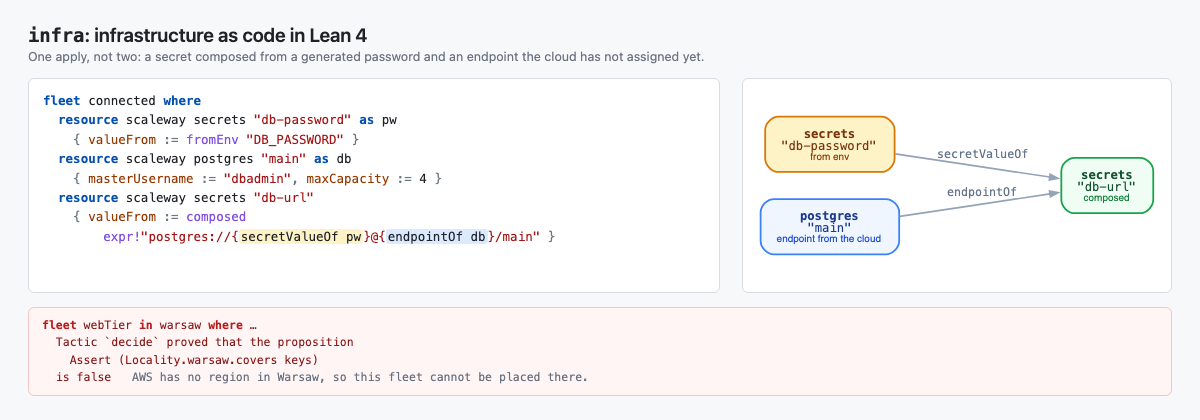
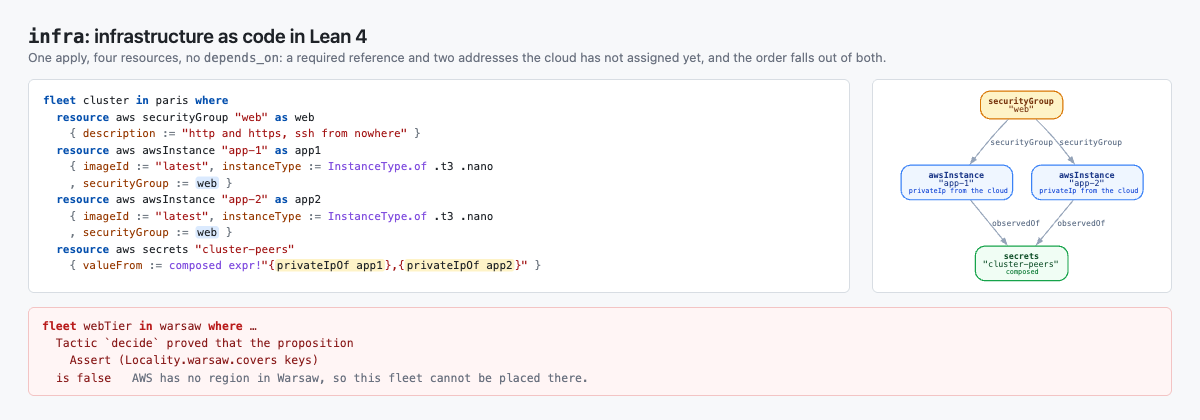
Update

diff --git a/static/blog/infra-lean/hero.html b/static/blog/infra-lean/hero.html
@@ -12,11 +12,11 @@ h1 span{font-family:var(--mono);font-weight:700}
 .sub{font-size:12.5px;color:var(--muted);margin:0 0 14px}
 .cols{display:flex;gap:22px;flex:1;min-height:0;align-items:stretch}
 pre{margin:0;background:#fff;border:1px solid var(--rule);border-radius:6px;
-  padding:12px 14px;font-family:var(--mono);font-size:12.5px;line-height:1.55;
+  padding:12px 14px;font-family:var(--mono);font-size:11px;line-height:1.5;
   flex:1 1 640px;min-width:0;overflow:hidden;color:var(--ink)}
-figure{margin:0;flex:0 0 430px;background:#fff;border:1px solid var(--rule);
+figure{margin:0;flex:0 0 300px;background:#fff;border:1px solid var(--rule);
   border-radius:6px;display:flex;align-items:center;justify-content:center;padding:8px}
-figure img{width:100%;height:auto}
+figure img{max-width:100%;max-height:100%;width:auto;height:auto}
 .k{color:var(--kw);font-weight:600}.s{color:var(--str)}.f{color:var(--fld)}
 .n{color:var(--fn)}.p{color:var(--pun)}
 .h1x{background:#fef3c7;border-radius:3px;padding:0 2px}
@@ -27,19 +27,22 @@ figure img{width:100%;height:auto}
 </style></head><body>
 
 <h1><span>infra</span>: infrastructure as code in Lean 4</h1>
-<p class="sub">One apply, not two: a secret composed from a generated password and an endpoint the cloud has not assigned yet.</p>
+<p class="sub">One apply, four resources, no <code>depends_on</code>: a required reference and two addresses the cloud has not assigned yet, and the order falls out of both.</p>
 
 <div class="cols">
-<pre><span class="k">fleet</span> connected <span class="k">where</span>
-  <span class="k">resource</span> scaleway secrets <span class="s">"db-password"</span> <span class="k">as</span> pw
-    <span class="p">{</span> <span class="f">valueFrom</span> <span class="p">:=</span> <span class="n">fromEnv</span> <span class="s">"DB_PASSWORD"</span> <span class="p">}</span>
-  <span class="k">resource</span> scaleway postgres <span class="s">"main"</span> <span class="k">as</span> db
-    <span class="p">{</span> <span class="f">masterUsername</span> <span class="p">:=</span> <span class="s">"dbadmin"</span><span class="p">,</span> <span class="f">maxCapacity</span> <span class="p">:=</span> 4 <span class="p">}</span>
-  <span class="k">resource</span> scaleway secrets <span class="s">"db-url"</span>
-    <span class="p">{</span> <span class="f">valueFrom</span> <span class="p">:=</span> <span class="n">composed</span>
-        <span class="n">expr!</span><span class="s">"postgres://{</span><span class="h1x">secretValueOf pw</span><span class="s">}@{</span><span class="h2x">endpointOf db</span><span class="s">}/main"</span> <span class="p">}</span></pre>
+<pre><span class="k">fleet</span> cluster <span class="k">in</span> paris <span class="k">where</span>
+  <span class="k">resource</span> aws securityGroup <span class="s">"web"</span> <span class="k">as</span> web
+    <span class="p">{</span> <span class="f">description</span> <span class="p">:=</span> <span class="s">"http and https, ssh from nowhere"</span> <span class="p">}</span>
+  <span class="k">resource</span> aws awsInstance <span class="s">"app-1"</span> <span class="k">as</span> app1
+    <span class="p">{</span> <span class="f">imageId</span> <span class="p">:=</span> <span class="s">"latest"</span><span class="p">,</span> <span class="f">instanceType</span> <span class="p">:=</span> <span class="n">InstanceType.of</span> .t3 .nano
+    <span class="p">,</span> <span class="f">securityGroup</span> <span class="p">:=</span> <span class="h2x">web</span> <span class="p">}</span>
+  <span class="k">resource</span> aws awsInstance <span class="s">"app-2"</span> <span class="k">as</span> app2
+    <span class="p">{</span> <span class="f">imageId</span> <span class="p">:=</span> <span class="s">"latest"</span><span class="p">,</span> <span class="f">instanceType</span> <span class="p">:=</span> <span class="n">InstanceType.of</span> .t3 .nano
+    <span class="p">,</span> <span class="f">securityGroup</span> <span class="p">:=</span> <span class="h2x">web</span> <span class="p">}</span>
+  <span class="k">resource</span> aws secrets <span class="s">"cluster-peers"</span>
+    <span class="p">{</span> <span class="f">valueFrom</span> <span class="p">:=</span> <span class="n">composed</span> <span class="n">expr!</span><span class="s">"{</span><span class="h1x">privateIpOf app1</span><span class="s">},{</span><span class="h1x">privateIpOf app2</span><span class="s">}"</span> <span class="p">}</span></pre>
 
-<figure><img src="dag.svg" alt="db-password and postgres main both feed db-url"></figure>
+<figure><img src="dag.svg" alt="the web security group feeds both app-1 and app-2, which both feed the cluster-peers secret"></figure>
 </div>
 
 <p class="note"><b>fleet</b> webTier <b>in</b> warsaw <b>where</b> …
